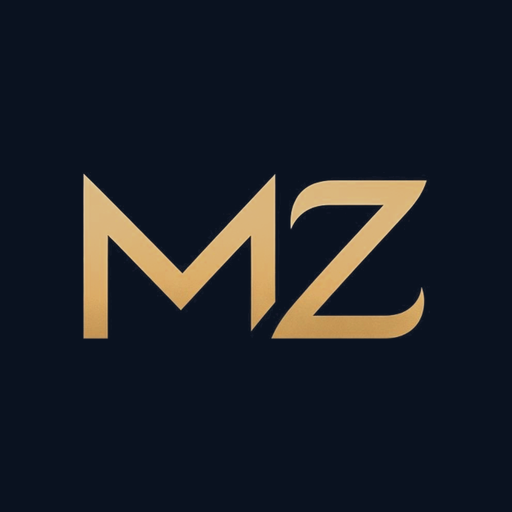
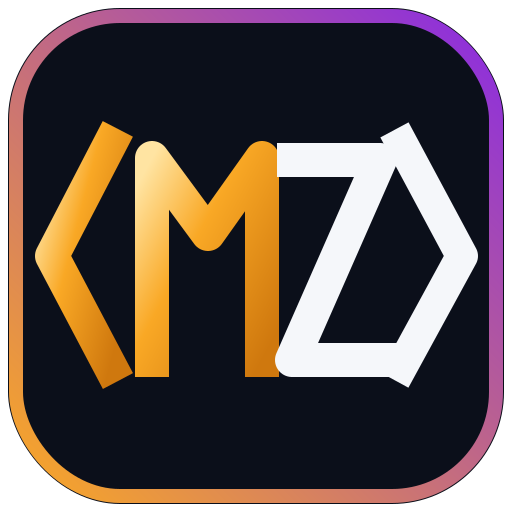
brand: launch approved MZcode identity and visible community lab
* feat(brand): compact gold MZ SVG mark for community mobile header

* build(community): bundle gold identity SVG with standalone Worker

* feat(community): serve branded MZ icon from isolated Worker

* ui(community): reduce mobile hero visual clutter and apply gold brand mark

* style(community): compact gold logo and mobile content-first layout

* feat(share): use short memorable /join invitation link

* fix(gateway): expose community in live homepage/nav, short join link and stale-email cache protection

* nav: prioritize community over about in main visitor navigation

* feat(home): prominent community invitation and mobile-dock entry

* style(home): subtle gold community call-to-action with mobile layout

* test(gateway): verify visible community CTA, short join and stale Vexa removal

* brand: approve orange silver MZ code-symbol identity, dark/light/gold variants

* brand: apply approved orange purple silver palette to site/assets/css/refined.css

* brand: apply approved orange purple silver palette to pilot/community/style.css

* brand(gateway): serve approved SVG assets and current header styling independent of Pages cache

* test(brand): verify updated scalable 256-square code monogram

* brand: add reproducible social card and app icon raster export

* ci(brand): generate and commit reproducible MZcode PNG artwork in same-repo PR

* brand: publish approved MZcode PNG icons and social preview
[…]

diff --git a/pilot/community/style.css b/pilot/community/style.css
@@ -1,1 +1,11 @@
 :root{color-scheme:dark;--bg:#0a111d;--panel:#142432;--line:#2d4252;--text:#f0f8fd;--muted:#b2c7d5;--mint:#69e5b5;--blue:#9dccff;--grad:linear-gradient(125deg,#6ae5b4,#8bc3ff)}*{box-sizing:border-box}html{scroll-behavior:smooth}body{margin:0;color:var(--text);font:16px/1.85 Tahoma,Arial,sans-serif;background:radial-gradient(ellipse at 90% 0%,#19384f,transparent 42%),#0a111d}button,input,textarea,select{font:inherit}button{cursor:pointer}a{color:inherit;text-underline-offset:4px}[hidden]{display:none!important}:focus-visible{outline:3px solid var(--blue);outline-offset:3px}.skip{position:absolute;top:-100px;right:15px;background:#fff;color:#000;padding:10px;z-index:99}.skip:focus{top:0}.topbar{position:sticky;top:0;z-index:10;background:#0a141fee;border-bottom:1px solid var(--line);backdrop-filter:blur(12px)}.top-inner{max-width:1160px;margin:auto;padding:15px 25px;display:flex;justify-content:space-between;align-items:center;gap:20px}.brand{display:flex;align-items:center;gap:9px;text-decoration:none;font-size:24px;font-weight:bold}.brand b{color:var(--mint)}.topbar nav{display:flex;gap:20px;font-size:13px;color:var(--muted)}.topbar nav a{text-decoration:none}.topbar nav a:hover{color:var(--mint)}main,footer{max-width:1160px;margin:auto;padding-left:25px;padding-right:25px}.hero{min-height:540px;display:grid;grid-template-columns:1.05fr .95fr;align-items:center;gap:25px;padding:65px 0}.eyebrow,.signal{color:var(--mint);font-size:12px;font-weight:bold}.live-dot{display:inline-block;width:8px;height:8px;background:var(--mint);border-radius:50%;margin-left:8px}.hero h1{font-size:clamp(42px,6vw,80px);line-height:1.17;letter-spacing:-.06em;margin:23px 0}.hero h1 span{background:var(--grad);background-clip:text;-webkit-background-clip:text;color:transparent}.lead{font-size:19px;line-height:1.9;color:#d0ddea}.hero-actions{display:flex;gap:12px;flex-wrap:wrap;margin:27px 0 14px}.action{display:inline-flex;align-items:center;justify-content:center;gap:20px;min-height:48px;border-radius:12px;padding:10px 23px;font-size:14px;font-weight:bold;text-decoration:none;border:1px solid transparent}.primary{background:var(--grad);color:#092422}.secondary{background:#15283b;color:var(--text);border-color:#49667b}.action:hover{filter:brightness(1.08)}.tiny,.subtle,.side-note{font-size:12px;color:var(--muted)}.hero-graphic{min-height:430px;position:relative;display:grid;place-items:center;isolation:isolate}.hero-graphic:before{content:"";position:absolute;inset:15%;background:#2a749042;filter:blur(80px);z-index:-1}.orbit{position:absolute;width:360px;height:360px;border:1px solid #54819b66;border-radius:50%;transform:rotate(-15deg) scaleY(.7)}.orbit-two{width:440px;height:440px;border-style:dashed;transform:rotate(32deg) scaleY(.76)}.core{height:195px;width:195px;border-radius:40px;display:flex;flex-direction:column;align-items:center;justify-content:center;transform:rotate(-8deg);font-size:75px;font-weight:900;line-height:1;background:linear-gradient(130deg,#1a3951,#0d1728);border:1px solid #6dbca8a3;box-shadow:0 30px 80px #53dbab21}.core span{font-size:15px;letter-spacing:.3em;margin-top:15px;color:var(--mint)}.float-tag{position:absolute;padding:7px 18px;background:#1c354a;border:1px solid #65919f;border-radius:12px;font-weight:bold}.float-tag.a{top:44px;right:10%}.float-tag.b{left:0;top:48%}.float-tag.c{bottom:35px;right:18%}.experience{border-top:1px solid var(--line);padding:60px 0 95px}.section-head{display:flex;justify-content:space-between;align-items:end;gap:15px;margin-bottom:24px}.section-head h2{font-size:clamp(28px,4vw,42px);margin:8px 0 0}.tabs{display:grid;grid-template-columns:repeat(3,1fr);gap:8px;background:#0d1b29;border:1px solid var(--line);border-radius:16px;padding:7px}.tabs button{min-height:60px;border:0;border-radius:11px;background:transparent;color:var(--muted);font-weight:bold}.tabs button[aria-selected=true]{background:var(--grad);color:#071f22}.tab-num{font-size:11px;margin-left:10px}.panel{padding-top:32px}.panel-heading{max-width:720px;margin-bottom:25px}.panel-heading h3{font-size:clamp(24px,3vw,34px);margin:9px 0}.panel-heading p{color:var(--muted);margin:0}.signal{display:inline-block;border-radius:30px;padding:3px 12px;background:#183a3a;border:1px solid #3f706a}.split{display:grid;grid-template-columns:1.2fr .8fr;gap:18px}.input-card,.aside-card,.vote-card,.try-card,.review-form{background:linear-gradient(135deg,#172b3a,#101b2a);border:1px solid var(--line);border-radius:18px;padding:25px}.input-card label,.review-form>label{display:block;font-weight:bold;font-size:14px;margin-bottom:8px}.input-card textarea,.input-card input:not([type=checkbox]),.review-form textarea,.review-form select{width:100%;border:1px solid #476173;background:#091726;color:var(--text);border-radius:10px;padding:12px 14px;resize:vertical}.input-card ::placeholder,.review-form ::placeholder{color:#8fa6b8}.form-bottom{display:flex;align-items:center;justify-content:space-between;gap:10px;margin:8px 0;font-size:12px;color:var(--muted)}.form-bottom .optional{font-weight:normal;margin:0}.check{display:flex!important;gap:9px;align-items:start;margin:18px 0!important;font-weight:normal!important;color:#d3e1e7}.check input{accent-color:var(--mint);width:19px;height:19px;margin-top:8px}.honeypot{position:absolute;left:-9999px;opacity:0;pointer-events:none}.info-step{border-bottom:1px solid var(--line);display:flex;align-items:center;gap:17px;padding:18px 0}.info-step b{font-size:22px;color:var(--mint)}.info-step p{margin:0;font-size:14px}.aside-card .subtle{margin-top:22px;line-height:2}.aside-card a{color:var(--blue)}.status{font-size:13px;min-height:20px;color:var(--mint)}.status.error{color:#ffb6b6}.receipt{background:#12382f;border:1px solid #367e6c;border-radius:17px;padding:23px;margin-top:20px}.receipt strong{display:block;letter-spacing:.07em;font-size:23px;margin:13px 0}.receipt .action{margin-left:10px}.link-button{background:none;border:0;color:var(--blue);padding:12px}.vote-grid{display:grid;grid-template-columns:repeat(3,1fr);gap:15px}.vote-card{display:flex;flex-direction:column;min-width:0}.card-top{color:var(--blue);font-size:12px;font-weight:bold}.card-symbol{font-size:48px;line-height:1;color:var(--mint);margin:0 0 20px}.vote-card h4{font-size:22px;margin:8px 0}.vote-card p{font-size:14px;color:var(--muted);margin:0 0 25px;min-height:55px}.vote-meter{height:7px;border-radius:15px;background:#0a1726;overflow:hidden;margin-top:auto}.vote-meter i{display:block;height:100%;width:0;background:var(--grad);transition:width .3s}.vote-bottom{display:flex;justify-content:space-between;align-items:center;gap:10px;margin-top:18px}.vote-count{font-size:12px;color:var(--muted)}.mini-action{background:#153e41;color:var(--mint);border:1px solid #4e8a86;border-radius:9px;padding:8px 12px;font-size:12px;font-weight:bold}.mini-action:disabled{opacity:.6;cursor:default}.try-grid{display:grid;grid-template-columns:repeat(4,1fr);gap:12px}.try-card{display:flex;flex-direction:column;gap:8px;text-decoration:none;min-height:207px}.try-card:hover{border-color:#5abdb5;transform:translateY(-3px)}.try-ico{font-size:38px;color:var(--mint);line-height:1}.try-card b{font-size:19px}.try-card>span:not(.try-ico){color:var(--muted);font-size:12px}.try-card em{font-size:12px;font-style:normal;color:var(--blue);margin-top:auto}.review-form{max-width:800px;margin-top:24px}.review-form h4{font-size:23px;margin:0 0 18px}.review-form>label{margin:12px 0 8px}.review-form select{max-width:420px}.review-form fieldset{border:0;padding:12px 0;margin:10px 0}.review-form legend{font-weight:bold}.rating{display:flex;gap:9px;flex-wrap:wrap}.rating input{position:absolute;opacity:0;width:1px;height:1px}.rating label{cursor:pointer}.rating span{display:grid;place-items:center;width:50px;height:48px;border:1px solid #517285;background:#102536;border-radius:10px}.rating input:checked+span{background:var(--grad);color:#072020}.rating input:focus-visible+span{outline:3px solid var(--blue)}.invite{display:flex;align-items:center;justify-content:space-between;gap:25px;margin:0 0 65px;padding:28px;border:1px solid #467e81;border-radius:18px;background:linear-gradient(120deg,#173c40,#172a40)}.invite h2{font-size:30px;margin:5px 0}.invite p{color:#c8dbe5}footer{display:flex;justify-content:space-between;gap:15px;border-top:1px solid var(--line);padding-top:20px;padding-bottom:35px;font-size:12px;color:var(--muted)}footer div{display:flex;gap:20px}@media(max-width:850px){.hero{grid-template-columns:1fr;min-height:0;padding:45px 0}.hero-graphic{order:-1;min-height:280px}.orbit{width:240px;height:240px}.orbit-two{width:310px;height:310px}.core{height:145px;width:145px;border-radius:28px;font-size:55px}.core span{font-size:12px}.float-tag{font-size:11px}.split{grid-template-columns:1fr}.vote-grid,.try-grid{grid-template-columns:repeat(2,1fr)}}@media(max-width:580px){.top-inner,main,footer{padding-left:15px;padding-right:15px}.brand{font-size:18px}.brand img{width:32px}.topbar nav{gap:10px;font-size:11px}.hero h1{font-size:44px}.lead{font-size:15px}.section-head{flex-direction:column;align-items:start}.tabs{gap:3px}.tabs button{font-size:11px;line-height:1.4;padding:8px 3px}.tab-num{display:block;margin:0}.input-card,.aside-card,.review-form,.vote-card,.try-card{padding:18px}.vote-grid,.try-grid{grid-template-columns:1fr}.vote-card p{min-height:0}.invite{flex-direction:column;align-items:stretch}.invite h2{font-size:24px}.hero-actions .action{flex:1 1 170px}.receipt strong{font-size:18px}footer{flex-wrap:wrap}}@media(prefers-reduced-motion:reduce){html{scroll-behavior:auto}*{transition:none!important}}
+/* Gold identity: one quiet focal point, not a large animated decorative panel. */
+.hero-graphic{min-height:320px}.hero-graphic .orbit{width:310px;height:310px;opacity:.55;border-color:#bb9b5a44}.hero-graphic .core{width:182px;height:182px;background:#141013;border-color:#a9874c;border-radius:30px;transform:rotate(-5deg);box-shadow:0 12px 60px #d7a45c1d}.hero-graphic .core img{width:100%;height:100%;object-fit:contain;border-radius:30px}.hero-brand-label{position:absolute;bottom:8px;left:50%;transform:translateX(-50%);white-space:nowrap;font:700 11px/1.5 Arial,sans-serif;letter-spacing:.28em;color:#e4bd76}.hero-graphic:before{filter:blur(70px);background:#715f3542}.brand img{border-radius:9px}
+@media(max-width:850px){.hero{padding:35px 0 42px}.hero-graphic{order:1;min-height:190px;margin-top:16px}.hero-graphic .orbit{width:185px;height:185px}.hero-graphic .core{width:130px;height:130px;border-radius:22px;transform:rotate(-4deg)}.hero-graphic .core img{border-radius:22px}.hero-brand-label{bottom:0}.hero-copy{order:0}}
+@media(max-width:580px){.hero{padding:24px 0 36px}.hero-graphic{min-height:160px;margin:4px 0 0}.hero-graphic .orbit{width:155px;height:155px}.hero-graphic .core{width:112px;height:112px;border-radius:18px}.hero-graphic .core img{border-radius:18px}.hero-brand-label{font-size:9px}.topbar nav a{padding:5px 2px}.top-inner{gap:10px}.brand{white-space:nowrap}}
+
+/* Approved MZcode brand palette — orange M, silver Z and a restrained violet accent. */
+:root{--mint:#F9BD5D;--blue:#C7AAFF;--grad:linear-gradient(115deg,#F9A825,#EFCE85);--bg:#0B0F1A}
+body{background:radial-gradient(ellipse at 90% 0%,#2d174d,transparent 45%),#0B0F1A}
+.hero h1 span{background:linear-gradient(115deg,#F9A825,#CDA0FF);background-clip:text;-webkit-background-clip:text}
+.topbar .brand span{color:#F9A825}.topbar .brand b{color:#F5F7FA}.hero-graphic .core{border-color:#8A2BE2;background:#0B0F1A;box-shadow:0 16px 60px #8A2BE22e}.hero-graphic .orbit{border-color:#8A2BE24f}.hero-brand-label{color:#F9BD5D}.vote-card:nth-child(2) .card-symbol{color:#A76CE8}.vote-card:nth-child(3) .card-symbol{color:#E2B55F}

diff --git a/pilot/community/index.html b/pilot/community/index.html
@@ -8,8 +8,10 @@
 <meta property="og:title" content="مختبر MZ — جرّب وشاركنا رأيك">
 <meta property="og:description" content="ثلاث تجارب سريعة: اقترح فكرة، اختر مشروعك المفضل، واختبر ما بنيناه. لا تسجيل ولا بيع.">
 <meta property="og:image" content="https://mzcodehub.com/assets/images/mz-share.png">
+<meta property="og:url" content="https://mzcodehub.com/community/">
+<meta name="twitter:card" content="summary_large_image">
 <link rel="canonical" href="https://mzcodehub.com/community/">
-<link rel="icon" href="/assets/images/mz-mark.svg">
+<link rel="icon" href="/community/mark.svg">
 <title>مختبر MZ | أنت شريك التجربة</title>
 <link rel="stylesheet" href="/community/style.css">
 <script src="/community/app.js" defer></script>
@@ -17,8 +19,8 @@
 <body>
 <a class="skip" href="#main">تخطّ إلى المحتوى</a>
 <header class="topbar"><div class="top-inner">
-<a class="brand" href="/" aria-label="الرئيسية"><img src="/assets/images/mz-mark.svg" width="38" height="38" alt=""><span dir="ltr">MZ<b>code</b></span></a>
-<nav aria-label="روابط مختبر MZ"><a href="/projects/">المشاريع</a><a href="/games/code/">الألعاب</a><a href="/idea">مختبر التنفيذ</a></nav>
+<a class="brand" href="/" aria-label="الرئيسية"><img src="/community/mark.svg" width="38" height="38" alt=""><span dir="ltr">MZ<b>code</b></span></a>
+<nav aria-label="روابط مختبر MZ"><a href="/projects/">المشاريع</a><a href="/games/code/">الألعاب</a><a href="/">الرئيسية</a></nav>
 </div></header>
 <main id="main">
 <section class="hero">
@@ -27,7 +29,7 @@
 <p class="lead">ما جينا نبيعك شيء. نبيك تجرّب اللي بنيناه وتقول رأيك، ويمكن فكرتك تكون مشروعنا القادم.</p>
 <div class="hero-actions"><a href="#experiences" class="action primary">ابدأ التحدّي <span aria-hidden="true">←</span></a><button type="button" class="action secondary" id="share-top">ادعُ شخصًا يجرب <span aria-hidden="true">↗</span></button></div>
 <p class="tiny">بدون تسجيل · بدون دفع · الآراء تهمنا أكثر من المجاملات</p></div>
-<div class="hero-graphic" aria-hidden="true"><div class="orbit orbit-one"></div><div class="orbit orbit-two"></div><div class="core">MZ<span>LAB</span></div><span class="float-tag a">فكرة؟</span><span class="float-tag b">جرّب</span><span class="float-tag c">صوّت</span></div>
+<div class="hero-graphic" aria-hidden="true"><div class="orbit orbit-one"></div><div class="core"><img src="/community/mark.svg" width="160" height="160" alt=""></div><span class="hero-brand-label">MZ COMMUNITY</span></div>
 </section>
 <section id="experiences" class="experience" aria-labelledby="experiences-title">
 <div class="section-head"><div><p class="eyebrow">اختر مغامرتك</p><h2 id="experiences-title">ثلاث طرق للمشاركة</h2></div><span class="side-note">كل تجربة أقل من دقيقتين</span></div>

diff --git a/site/assets/css/refined.css b/site/assets/css/refined.css
@@ -226,3 +226,8 @@ main,.site-footer { max-width:1280px; padding-inline:clamp(18px,4vw,56px); }
   .featured-card,.product,.product-link span { transition:none!important; }
   .product:has(a:hover),.product:focus-within,.featured-card:hover { transform:none; }
 }
+/* Visitor-first community invitation, deliberately distinct from commercial offers */
+.community-invite{max-width:1150px;margin:18px auto 35px;padding:27px clamp(19px,4vw,36px);border:1px solid #8f7849;border-radius:19px;background:linear-gradient(115deg,#172b32,#171920);color:#eef4f8;display:flex;align-items:center;justify-content:space-between;flex-wrap:wrap;gap:20px}.community-invite>div{max-width:670px}.community-invite span{color:#edc77f;font-size:13px;font-weight:bold}.community-invite h2{font-size:clamp(23px,4vw,34px);line-height:1.5;margin:6px 0}.community-invite p{font-size:15px;color:#c6d4df;line-height:1.9;margin:0}.community-invite>a{display:inline-flex;min-height:48px;align-items:center;justify-content:center;padding:12px 25px;border-radius:11px;background:linear-gradient(120deg,#ddad56,#f3d18a);font-size:15px;font-weight:bold;text-decoration:none;color:#1b160e}.nav-community{color:#e9c786!important;font-weight:700}.community-invite>a:hover{filter:brightness(1.07)}@media(max-width:600px){.community-invite{margin:12px 18px 24px;padding:21px;align-items:stretch}.community-invite>a{width:100%}}
+
+/* Approved MZcode orange/silver identity; scoped to branding and invitation elements. */
+.site-header .brand>span{color:#F9A825!important}.site-header .brand>span>span{color:#F5F7FA!important}.site-header .brand img{border-radius:10px;box-shadow:0 0 15px #8a2be21c}.nav-community{color:#F9A825!important}.community-invite{border-color:#77599f;background:linear-gradient(115deg,#191925,#111a27)}.community-invite span{color:#F9A825}.community-invite>a{background:linear-gradient(120deg,#F9A825,#EDC779);color:#10131B}.site-header .brand:focus-visible{outline-color:#F9A825}

diff --git a/pilot/community/app.js b/pilot/community/app.js
@@ -4,7 +4,7 @@
   const tabButtons = [...document.querySelectorAll('[data-tab]')];
   const panels = ['idea', 'vote', 'try'];
   const projectIds = ['kafu', 'formah', 'marib'];
-  const invitation = 'ادخل مختبر MZ وخلّنا نشوف أفكارك. ما فيه تسجيل ولا بيع؛ جرّب، صوّت، وقل رأيك بصراحة!\nhttps://mzcodehub.com/community/';
+  const invitation = 'ادخل مختبر MZ وخلّنا نشوف أفكارك. ما فيه تسجيل ولا بيع؛ جرّب، صوّت، وقل رأيك بصراحة!\nhttps://mzcodehub.com/join';
   let snapshot = null;
   let busy = false;
 
@@ -146,13 +146,13 @@
   });
   async function invite() {
     if (navigator.share) {
-      try { await navigator.share({title:'مختبر MZ',text:'جرّب وشاركنا رأيك دون تسجيل أو شراء.',url:'https://mzcodehub.com/community/'}); return; }
+      try { await navigator.share({title:'مختبر MZ',text:'جرّب وشاركنا رأيك دون تسجيل أو شراء.',url:'https://mzcodehub.com/join'}); return; }
       catch (error) { if (error.name === 'AbortError') return; }
     }
     const copied = await copy(invitation);
     const button = $('share-bottom');
     const old = button.textContent;
-    button.textContent = copied ? 'نسخت الدعوة — أرسلها لمن تحب' : 'الرابط: mzcodehub.com/community/';
+    button.textContent = copied ? 'نسخت الدعوة — أرسلها لمن تحب' : 'الرابط: mzcodehub.com/join';
     setTimeout(() => { button.textContent = old; },4000);
   }
   $('share-top').addEventListener('click',invite);

diff --git a/pilot/community/worker.js b/pilot/community/worker.js
@@ -3,6 +3,7 @@
 const HTML = __MZ_HTML__;
 const CSS = __MZ_CSS__;
 const APP_JS = __MZ_JS__;
+const MARK_SVG = __MZ_MARK__;
 const TEXT = new TextEncoder();
 const PROJECTS = new Set(['kafu','formah','marib']);
 const REVIEW_PROJECTS = new Set(['kafu','formah','marib','code']);
@@ -94,6 +95,7 @@ async function handle(req,env){
   if(p==='/community')return Response.redirect(url.origin+'/community/'+url.search,308);
   if((p==='/community/'||p==='/community/index.html')&&['GET','HEAD'].includes(req.method))return showAsset(HTML,'text/html; charset=utf-8',req);
   if(p==='/community/style.css'&&['GET','HEAD'].includes(req.method))return showAsset(CSS,'text/css; charset=utf-8',req);
+  if(p==='/community/mark.svg'&&['GET','HEAD'].includes(req.method))return showAsset(MARK_SVG,'image/svg+xml; charset=utf-8',req);
   if(p==='/community/app.js'&&['GET','HEAD'].includes(req.method))return showAsset(APP_JS,'text/javascript; charset=utf-8',req);
   if(!['/api/community','/api/community/vote','/api/community/ideas','/api/community/reviews'].includes(p))return fail('المسار غير موجود.',404);
   if(!env.DB||!env.MZ_LAB_SECRET)return fail('المختبر لا يستقبل مشاركات حاليًا.',503);

diff --git a/scripts/generate-brand-png.py b/scripts/generate-brand-png.py
@@ -1,0 +1,37 @@
+"""Create official MZcode PNG assets from the approved SVG logo (build-time only)."""
+from pathlib import Path
+from io import BytesIO
+from PIL import Image, ImageDraw, ImageFont, ImageFilter
+import cairosvg
+
+ROOT=Path(__file__).resolve().parents[1]
+ASSETS=ROOT / 'site/assets/images'
+SVG=(ASSETS/'mz-mark.svg').read_bytes()
+
+for size,name in [(192,'icon-192.png'),(512,'icon-512.png')]:
+    cairosvg.svg2png(bytestring=SVG,write_to=str(ASSETS/name),output_width=size,output_height=size)
+
+W,H=1200,630
+image=Image.new('RGBA',(W,H),'#0B0F1A')
+glow=Image.new('RGBA',(W,H))
+brush=ImageDraw.Draw(glow)
+brush.ellipse((-420,-400,640,640),fill=(226,140,24,95))
+brush.ellipse((570,120,1400,890),fill=(121,42,213,105))
+image=Image.alpha_composite(image,glow.filter(ImageFilter.GaussianBlur(95)))
+draw=ImageDraw.Draw(image)
+draw.rounded_rectangle((82,93,1117,538),radius=45,fill=(14,18,34,230),outline=(118,85,169,210),width=4)
+icon=Image.open(BytesIO(cairosvg.svg2png(bytestring=SVG,output_width=350,output_height=350))).convert('RGBA')
+image.alpha_composite(icon,(120,140))
+draw=ImageDraw.Draw(image)
+try:
+    font=ImageFont.truetype('DejaVuSans-Bold.ttf',97)
+    caption=ImageFont.truetype('DejaVuSans.ttf',34)
+except OSError:
+    font=ImageFont.load_default()
+    caption=font
+draw.text((510,165),'MZ',font=font,fill='#F9A825')
+draw.text((685,165),'code',font=font,fill='#F5F7FA')
+draw.rounded_rectangle((519,312,1047,316),radius=2,fill='#8A2BE2')
+draw.text((520,367),'TECHNOLOGY BEYOND LIMITS',font=caption,fill='#BBC5D5')
+image.convert('RGB').save(ASSETS/'mz-share.png',optimize=True)
+print('Official brand PNGs ready')
